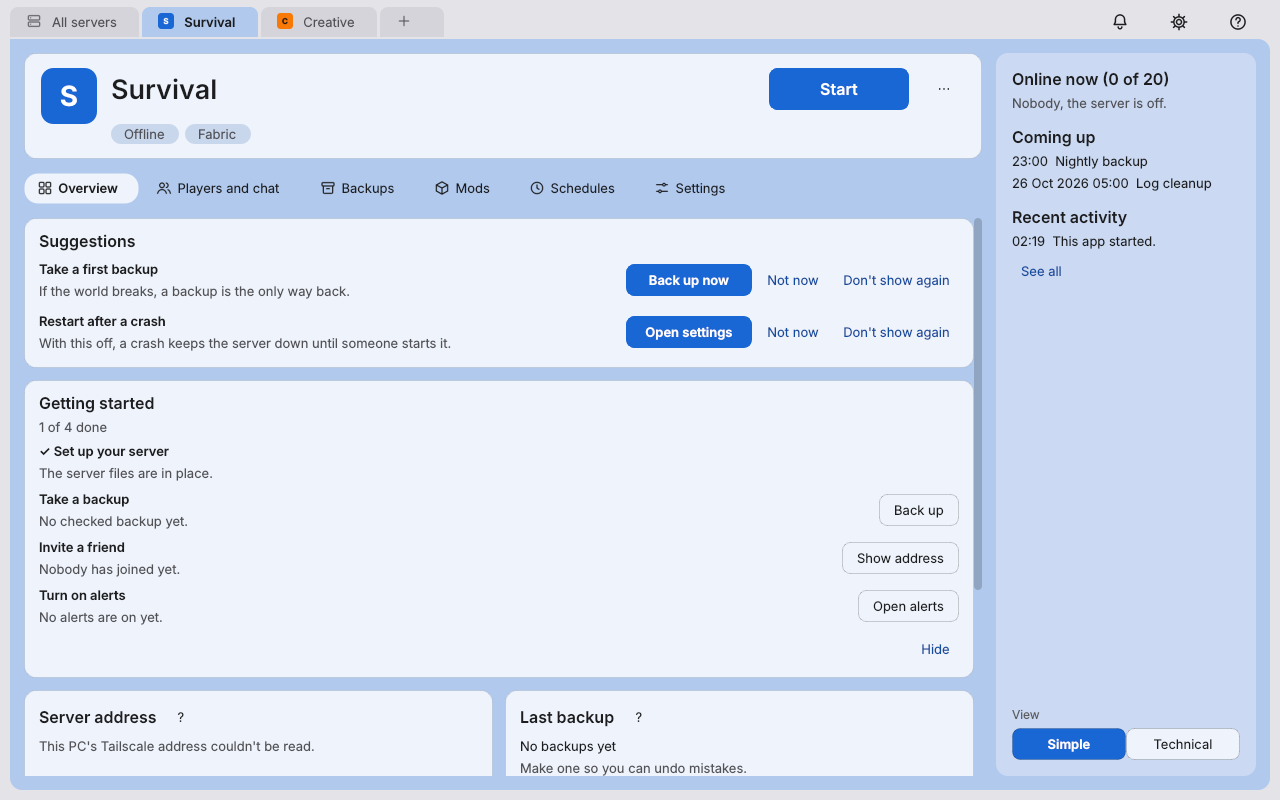
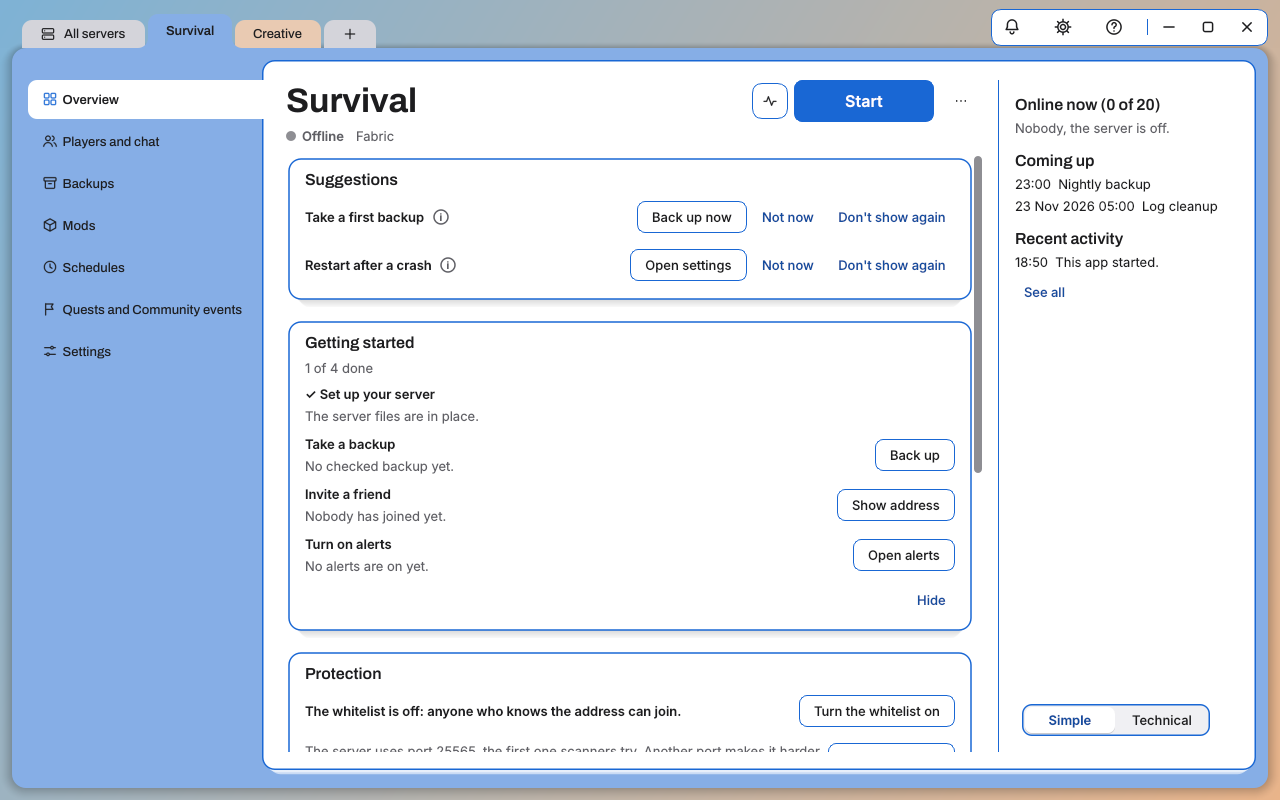
Go through the design slop checklist: no lines between list rows, no capitals, style guide

diff --git a/mobile/android/app/src/main/kotlin/io/github/peyoteheadlights/mcsc/ui/ServerSettings.kt b/mobile/android/app/src/main/kotlin/io/github/peyoteheadlights/mcsc/ui/ServerSettings.kt
@@ -13,6 +13,7 @@ import androidx.compose.foundation.layout.fillMaxWidth
 import androidx.compose.foundation.layout.padding
 import androidx.compose.foundation.layout.size
 import androidx.compose.foundation.shape.CircleShape
+import androidx.compose.foundation.shape.RoundedCornerShape
 import androidx.compose.foundation.text.KeyboardOptions
 import androidx.compose.material3.Button
 import androidx.compose.material3.Checkbox
@@ -376,7 +377,7 @@ internal fun ColorPicker(palette: List<Pair<String, String>>, current: String?, 
         ServerColors.rgb(current)?.let { rgb ->
             val fill = ServerColors.fillWithText(rgb)
             Box(
-                Modifier.padding(top = 8.dp).background(hexColor(ServerColors.hex(fill.fill)) ?: colors.neutral, CircleShape)
+                Modifier.padding(top = 8.dp).background(hexColor(ServerColors.hex(fill.fill)) ?: colors.neutral, RoundedCornerShape(8.dp))
                     .padding(horizontal = 12.dp, vertical = 4.dp),
             ) { Text(current.orEmpty().uppercase(), color = hexColor(ServerColors.hex(fill.text)) ?: colors.text) }
         }

diff --git a/mobile/ios/ServerController/ServerSettingsView.swift b/mobile/ios/ServerController/ServerSettingsView.swift
@@ -375,7 +375,7 @@ struct ServerColorPicker: View {
                     .padding(.horizontal, 12)
                     .padding(.vertical, 4)
                     .foregroundStyle(Color.fromHex(ServerColors.hex(fill.text)) ?? palette.textPrimary)
-                    .background(Capsule().fill(Color.fromHex(ServerColors.hex(fill.fill)) ?? .gray))
+                    .background(RoundedRectangle(cornerRadius: 8).fill(Color.fromHex(ServerColors.hex(fill.fill)) ?? .gray))
             }
         }
         .onAppear { typed = current ?? "" }

diff --git a/mobile/ios/ServerController/ServerControllerApp.swift b/mobile/ios/ServerController/ServerControllerApp.swift
@@ -15,6 +15,8 @@ struct ServerControllerApp: App {
             RootView()
                 .environment(model)
                 .preferredColorScheme(model.theme.colorScheme)
+                // Section headings keep their sentence case, never ALL CAPS.
+                .textCase(nil)
         }
     }
 }

diff --git a/tests/test_desktop_pages.py b/tests/test_desktop_pages.py
@@ -309,7 +309,9 @@ def test_speed_readings_say_how_tps_is_read_and_can_change_it(qapp, agent_http):
 
 def test_the_health_checks_show_with_their_overall_result(qapp, agent_http):
     window, page = technical_page(qapp, agent_http, "Performance")
-    wait_for(qapp, lambda: "VERIFIED" in shown_text(page) or "ATTENTION" in shown_text(page))
+    results = ("All checks verified", "Partially verified", "Attention needed")
+    wait_for(qapp, lambda: any(r in shown_text(page) for r in results))
+    assert "VERIFIED" not in shown_text(page)  # sentence case, never capitals
 
 
 # ---------------------------------------------------------------- Schedules

diff --git a/desktop/theme.py b/desktop/theme.py
@@ -180,7 +180,7 @@ QLineEdit:focus, QComboBox:focus, QSpinBox:focus, QDoubleSpinBox:focus {{ border
 
 QListWidget {{ background: {t["surface"]}; border: 1px solid {t["border"]};
                border-radius: {t["radius"]}; padding: 4px; }}
-QListWidget::item {{ padding: 8px; border-bottom: 1px solid {t["border"]}; }}
+QListWidget::item {{ padding: 8px; margin-bottom: 2px; border-radius: {t["radius-sm"]}; }}
 QListWidget::item:selected {{ background: {t["accent-soft"]}; color: {t["text-primary"]}; }}
 
 QFrame[kind="choice"] {{ background: {t["surface"]}; border: 1px solid {t["border"]};

diff --git a/desktop/connect.py b/desktop/connect.py
@@ -85,6 +85,7 @@ class ConnectWindow(QWidget):
         self.setWindowTitle(text("app.name"))
         self.setObjectName("desk")
         self.setAttribute(Qt.WidgetAttribute.WA_StyledBackground)
+        theme.load_fonts()
         dark = QGuiApplication.styleHints().colorScheme() == Qt.ColorScheme.Dark
         self.setStyleSheet(theme.style_sheet(theme.tokens(dark, None), pc.text_scale()))
         self.resize(720, 520)

diff --git a/desktop/help.py b/desktop/help.py
@@ -162,7 +162,8 @@ class About(Section):
         except OSError as exc:
             notices = str(exc)
         notes = label(notices)
-        notes.setTextFormat(Qt.TextFormat.PlainText)
+        # Drawn as Markdown, so the file's "#" and backticks don't show as code.
+        notes.setTextFormat(Qt.TextFormat.MarkdownText)
         inside.addWidget(notes)
         self.fill("licences", licences)
 

diff --git a/installer/app/window.py b/installer/app/window.py
@@ -285,6 +285,7 @@ class SetupWindow(QWidget):
         if dark is None:
             dark = QGuiApplication.styleHints().colorScheme() == Qt.ColorScheme.Dark
         self.dark = dark
+        theme.load_fonts()
         self.tokens = theme.tokens(dark)
         self.setStyleSheet(theme.style_sheet(self.tokens))
         self.setWindowTitle(t("window"))

diff --git a/docs/style.md b/docs/style.md
@@ -1,0 +1,83 @@
+# Style guide
+
+How Command Block looks in the desktop app, the setup window and the phone
+apps. Read this before changing anything people see.
+
+## Look
+
+### Colors
+
+- All colors live in `shared/theme.json` (light, dark, graphite, high
+  contrast). The desktop app reads them in `desktop/theme.py`, the phones in
+  `ServerColors.binder()` (Kotlin and Swift). `shared/look-cases.json` holds
+  the expected results, and the Python, Kotlin and Swift tests all check
+  against it, so the three apps can't drift apart.
+- Light mode is plain cool grey and white. No cream or warm off-white.
+- Each server has its own color. It colors the band, the main buttons and the
+  edges of raised boxes, never the whole page. With no server open
+  (All servers, PC settings) the color is copper (`#C8794A`).
+- Text uses three greys only: `text-primary`, `text-secondary` and
+  `text-tertiary`. All of them pass contrast in every theme. Don't add
+  see-through text.
+- No gradients and no glows. Raised boxes get a soft shadow, that's all.
+- No purple-blue "AI" accents.
+
+### Fonts
+
+- Headings and the server tabs: **Archivo** (`shared/fonts/`, under the SIL
+  Open Font License). Body text: Segoe UI on Windows, the system font on the
+  phones.
+- Normal letter spacing, no italics, no display serifs.
+- A mono font only where the exact characters matter: the console, addresses,
+  file names, fingerprints and raw config text. Never for style.
+- Sentence case everywhere: titles, buttons, headings, tabs. No ALL CAPS
+  labels, and no full stop at the end of a title or button.
+
+### Shapes and spacing
+
+- Corners stay small: 8 px on boxes, buttons and fields, 12 to 14 px on the
+  sheet. No pills and no squircles. Round only for dots and color swatches.
+- A raised box holds one thing: a server, a backup, a mod, a card on the
+  Overview or one group of settings. Don't put boxes inside boxes.
+- No divider lines between rows. Space and the hover color separate them. In
+  the binder, the tabs are the dividers.
+
+### Parts
+
+The desktop parts are in `desktop/parts.py` (see `scripts/parts_gallery.py`),
+the phone ones in `ui/Common.kt` and `SharedUI/Look.swift`.
+
+- **Status mark**: a steady dot and a word ("Online", "Offline"). A new
+  state's dot grows in once; it never loops and is never a pill.
+- **Info dot** (i): sentences that only explain go behind it. Hover on the
+  desktop, tap on the phones.
+- **Icon buttons** for common actions, always with a hover name and an
+  accessible name.
+- **Player face**: a plain grey head until real skins exist.
+- Loading: a plain bar with the real percentage. No pixel grids.
+
+### Icons
+
+- Line icons, 24 by 24, drawn in `desktop/icons.py` in the color asked for.
+  The phones use their platform icons (SF Symbols, Material).
+- No emoji in the app, the alerts, the feed or notifications. No sparkle
+  icons on "suggest" or "fix" buttons.
+- Plain type marks are fine where they help reading: `•` for a list in a
+  sentence, `→` between two versions, `✓` for a step that is done.
+- The app icon stays flat.
+
+### Motion
+
+- One curve, eased out, no bounce. The binder moves take 560 to 620 ms,
+  small things stay under about 300 ms.
+- Nothing loops while idle and nothing moves while you drag it.
+- Everything turns off when Windows' "Show animations" is off, over Remote
+  Desktop, or when the phone's reduce motion setting is on.
+
+### Things to leave out
+
+From the AI design slop checklist: tags on every label, eyebrow labels (a
+small capitals word above a heading), section numbers like 01 and 02,
+code-style labels like `// section`, ASCII art, dithered pictures, see-through
+blurred panels as the main look, endless scrolling text, and screens that
+show everything at once (Simple mode shows less).
